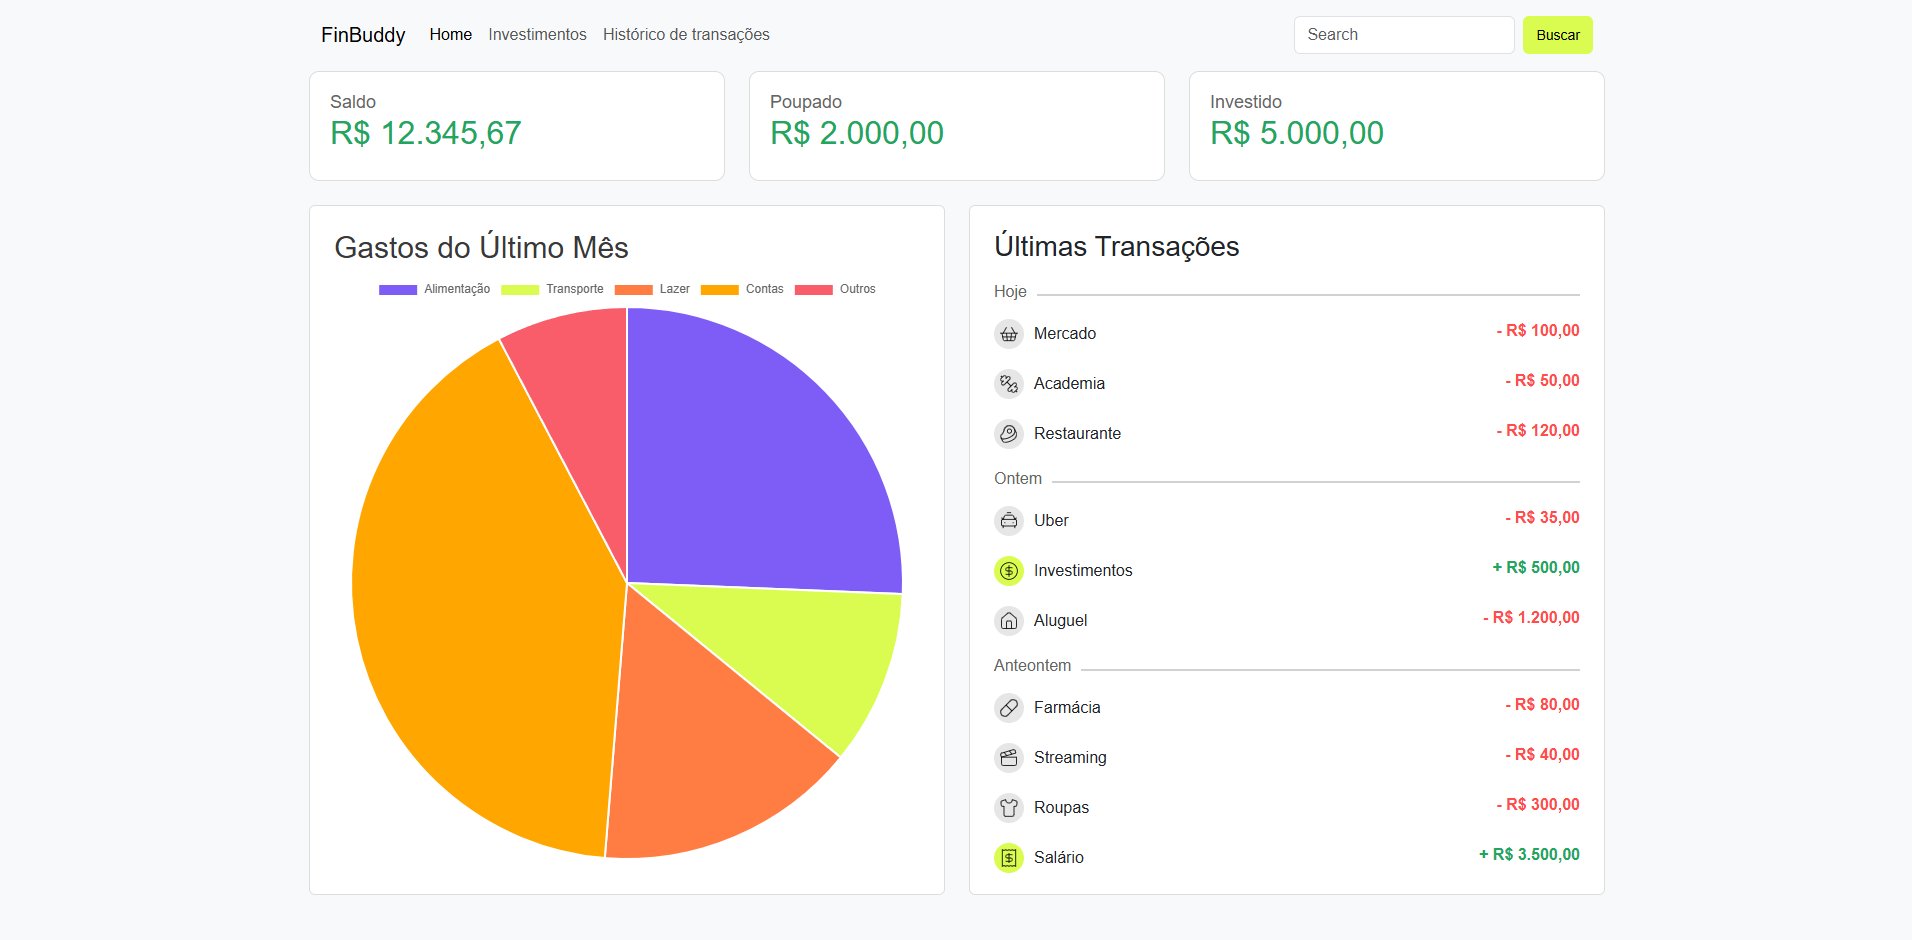
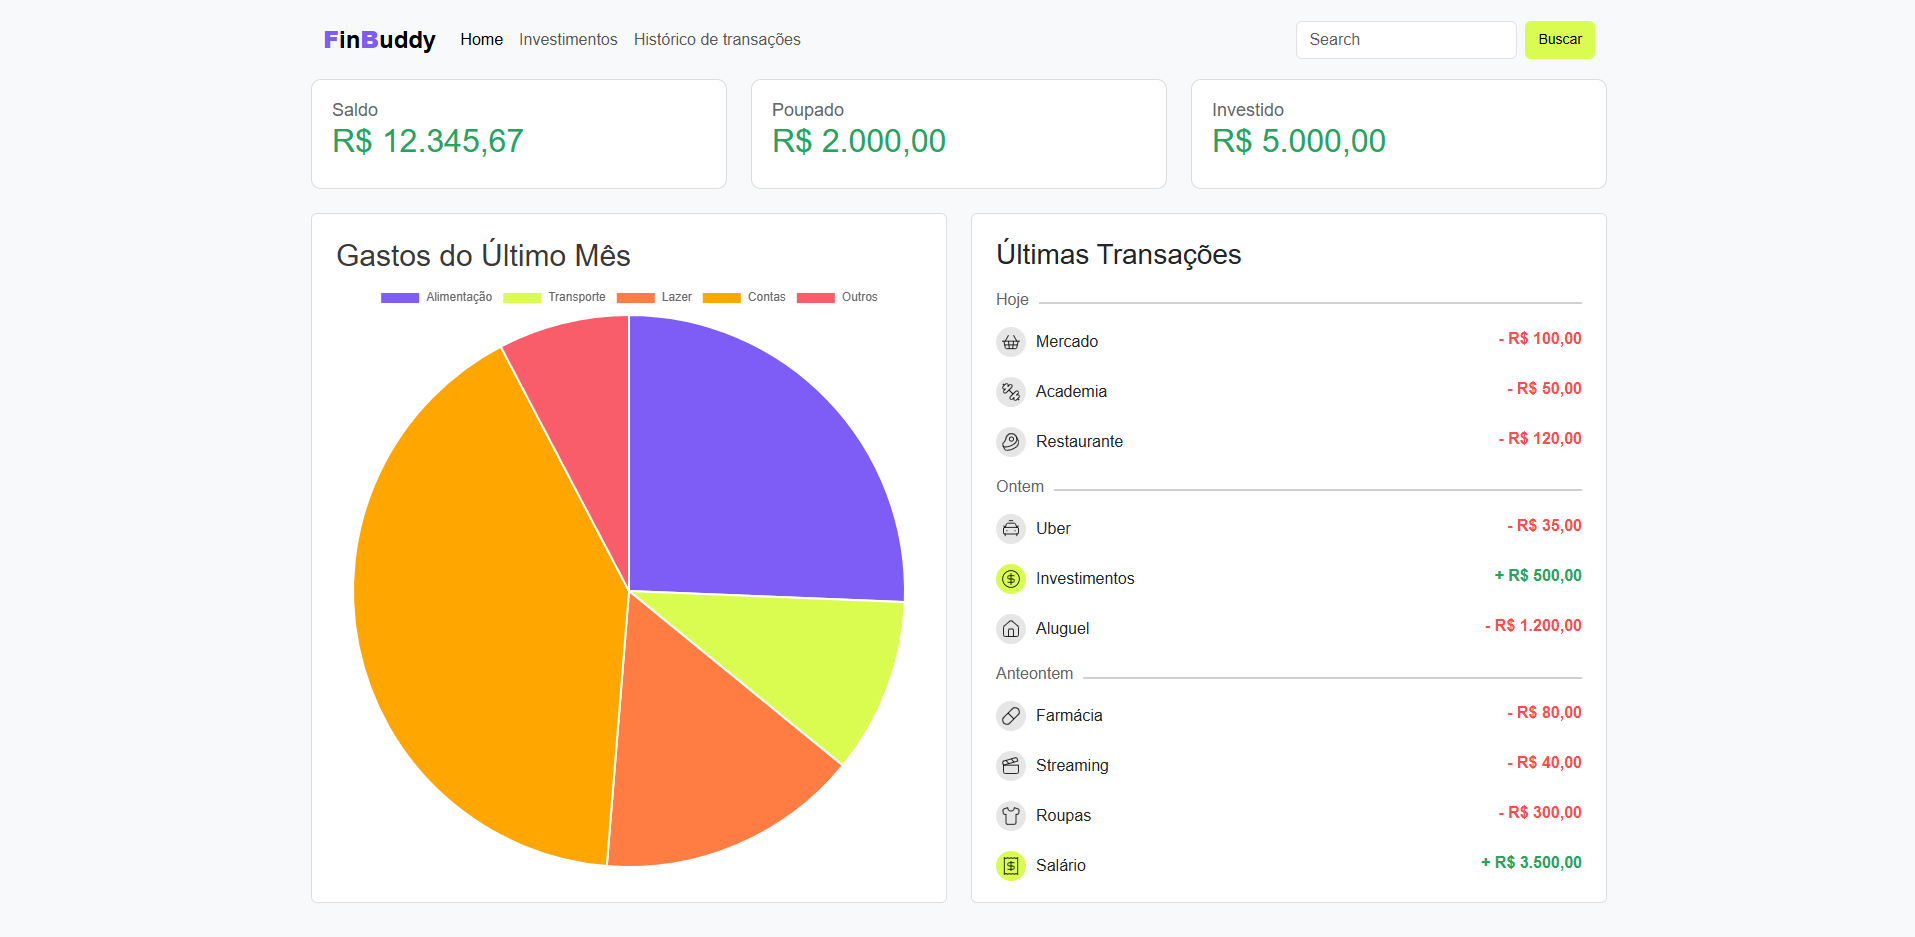
style: Update navbar brand styling and add emphasis to FinBuddy name

diff --git a/index.html b/index.html
@@ -17,7 +17,7 @@
   <body class="container-lg">
     <nav class="navbar navbar-expand-lg mt-2 bg-body-tertiary">
       <div class="container-fluid">
-        <a class="navbar-brand" href="#">FinBuddy</a>
+        <a class="navbar-brand" href="#"><b>F</b>in<b>B</b>uddy</a>
         <button
           class="navbar-toggler"
           type="button"

diff --git a/css/style.css b/css/style.css
@@ -9,6 +9,15 @@ body {
   background-color: #f8f9fa;
 }
 
+.navbar-brand {
+  font-size: 24px;
+  font-weight: bold;
+  color: #000;
+}
+b {
+  color: #7d5df6;
+}
+
 .dashboard-card {
   border: none;
   border-radius: 10px;
